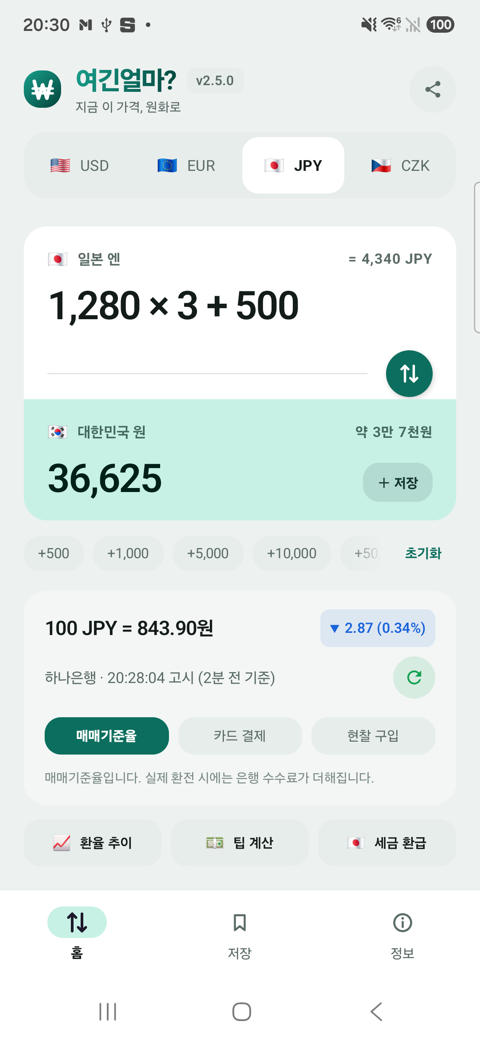
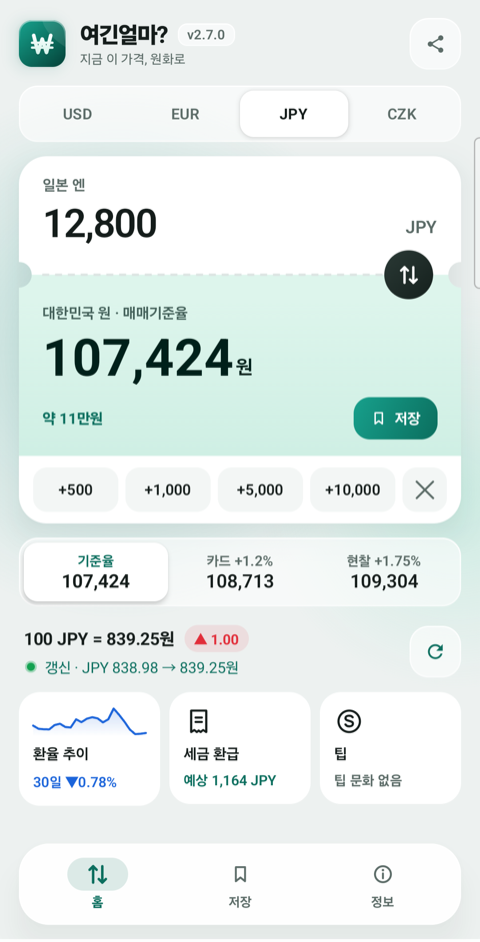
chore: v2.7.0 릴리스 준비
- versionCode 26 / 2.7.0, 변경 이력 8건
- README: 빠른 금액·저장 목록·계산기 위젯 설명 갱신, 홈·위젯 스크린샷 교체(S25)

검증
- 단위 테스트 전체 통과, 릴리스 서명 v2·v3
- S25: 홈(빠른 금액·현찰 전환·식 입력·방향 바꾸기·입력 중 접힘), 정보 화면, 4×5 위젯
- PriceHere_Check AVD: 저장 화면(밀어서 삭제 + 되돌리기), 다크 모드(홈·저장), 런처 아이콘
- 미확인: 4×3·빠른 계산·환율 보기 위젯 실제 배치 화면

diff --git a/app/src/main/java/com/pricehere/app/Changelog.kt b/app/src/main/java/com/pricehere/app/Changelog.kt
@@ -10,6 +10,21 @@ data class Release(
 /** 최신 버전이 맨 위. 배포할 때마다 여기에 한 블록씩 쌓는다. */
 val CHANGELOG: List<Release> = listOf(
     Release(
+        version = "2.7.0",
+        date = "2026-11-17",
+        headline = "화면을 새로 다듬었습니다",
+        notes = listOf(
+            "환산 카드를 가격표 모양으로 바꾸고, 빠른 금액 버튼을 카드 아래 칸에 붙였습니다",
+            "원화 결과가 바뀔 때 숫자가 자리별로 올라오고, 통화·결제 수단 선택이 미끄러지듯 옮겨 갑니다",
+            "결제 수단 버튼 안에 수단별 금액을 함께 보여줍니다",
+            "환율 추이·세금 환급·팁 칸에 30일 그래프와 예상 금액을 미리 보여줍니다",
+            "하단 탭을 떠 있는 반투명 바로 바꾸고, 홈에 최근 저장 2건을 보여줍니다",
+            "저장 목록은 왼쪽으로 밀어서 삭제합니다. 삭제 직후 되돌릴 수 있습니다",
+            "계산기 위젯을 휴대폰 계산기 배치로 바꾸고(0은 2칸), 작은 크기에서는 통화 키로 통화를 바꿉니다",
+            "앱 아이콘에 입체감을 더했습니다",
+        ),
+    ),
+    Release(
         version = "2.6.1",
         date = "2026-11-17",
         headline = "일본 세금 환급 안내를 시행된 제도에 맞췄습니다",

diff --git a/README.md b/README.md
@@ -18,13 +18,13 @@
 - **도착하면 현지 통화** — 해외 통신망에 처음 연결되면 그 나라 통화로 열립니다. 위치 권한 없이 통신망 국가 코드만 봅니다.
 - **다른 앱에서 바로 환산** — 쇼핑몰이나 예약 화면에서 `¥12,800`을 길게 눌러 선택하면 텍스트 선택 메뉴에 "여긴얼마?"가 뜹니다. 원래 화면 위에 원화가 바로 나옵니다.
 - **한국식 어림값** — 원화 결과 옆에 "약 3만 7천원"처럼 감이 오는 단위로 함께 보여줍니다.
-- **계산식 입력** — 입력칸에 `1,280 × 3 + 500`처럼 식을 넣으면 합계를 바로 환산합니다. 키보드가 떠 있는 동안 키보드 바로 위에 `+ − × ÷` 키가 붙습니다.
-- **빠른 금액** — `+10` `+100`처럼 누를 때마다 더해지고, 초기화로 한 번에 비웁니다.
+- **계산식 입력** — 입력칸에 `1,280 × 3 + 500`처럼 식을 넣으면 합계를 바로 환산합니다. 키보드가 떠 있는 동안 키보드 바로 위에 `+ − × ÷`와 저장 키가 붙습니다.
+- **빠른 금액** — 환산 카드 맨 아래 칸의 `+500` `+1,000`처럼 누를 때마다 더해지고, ✕로 한 번에 비웁니다.
 - **결제 수단별 실부담** — 매매기준율 / 카드 결제 / 현찰 구입 추정치를 전환하고, 세 금액을 버튼 아래에 나란히 비교합니다. 고른 결제 수단은 다시 열어도 유지되고, 저장 목록에도 함께 남습니다.
 - **환율 추이** — 7일 · 30일 · 90일 그래프와 최저 · 최고 · 평균. ECB 기준환율이라 주말과 공휴일은 비어 있습니다.
 - **팁 계산** — 나라별 관행에 맞춘 비율과 인원수 분배. 일본처럼 팁이 없는 곳은 그렇게 안내합니다.
 - **세금 환급 계산** — 체코 · 스페인 · 일본의 부가세 환급 예상액과 최소 구매 금액. 일본은 2026년 11월 1일 시행된 리펀드 방식(출국 시 반출 확인 → 매장·대행사 환급)으로 계산합니다.
-- **저장 목록** — 금액에 메모를 붙여 두고, 나중에 최신 환율로 다시 확인합니다. 저장 시점과의 차이도 함께 보여주고, 원하는 항목만 골라 공유할 수 있습니다. 합계에는 입국 면세 한도(1인 800달러)까지 얼마 남았는지 막대로 표시합니다.
+- **저장 목록** — 금액에 메모를 붙여 두고, 나중에 최신 환율로 다시 확인합니다. 저장 시점과의 차이도 함께 보여주고, 원하는 항목만 골라 공유하고, 왼쪽으로 밀어 삭제합니다(직후 되돌리기 가능). 합계에는 입국 면세 한도(1인 800달러)까지 얼마 남았는지 막대로 표시합니다.
 - **다크 모드** — 시스템 설정을 따르거나 밝게 · 어둡게 고정합니다.
 - **변경 이력과 업데이트 알림** — 새 릴리스가 있으면 버전 옆에 점이 붙고, 버전을 누르면 그동안 무엇이 바뀌었는지 볼 수 있습니다.
 
@@ -37,7 +37,7 @@
 | --- | --- | --- |
 | 환율 보기 | 4×2 | 달러 · 유로 · 엔 · 코루나 환율을 한눈에 |
 | 빠른 계산 | 4×2 | 통화와 금액을 골라 원화를 바로 계산 |
-| 환율 계산기 | 4×3 | 위젯 안에서 사칙연산(+ − × ÷)으로 계산해 바로 환산. 크게 놓으면 +가 2칸인 계산기 배치. 앱에서 고른 결제 수단으로 계산하고, 계산 결과를 누르면 식 그대로 앱에서 이어서 계산 |
+| 환율 계산기 | 4×3 | 위젯 안에서 사칙연산(+ − × ÷)으로 계산해 바로 환산. 크게 놓으면 휴대폰 계산기 배치(0 가로 2칸, + 세로 2칸), 작게 놓으면 통화 키로 통화 전환. 앱에서 고른 결제 수단으로 계산하고, 계산 결과를 누르면 식 그대로 앱에서 이어서 계산 |
 
 ## 기술
 
